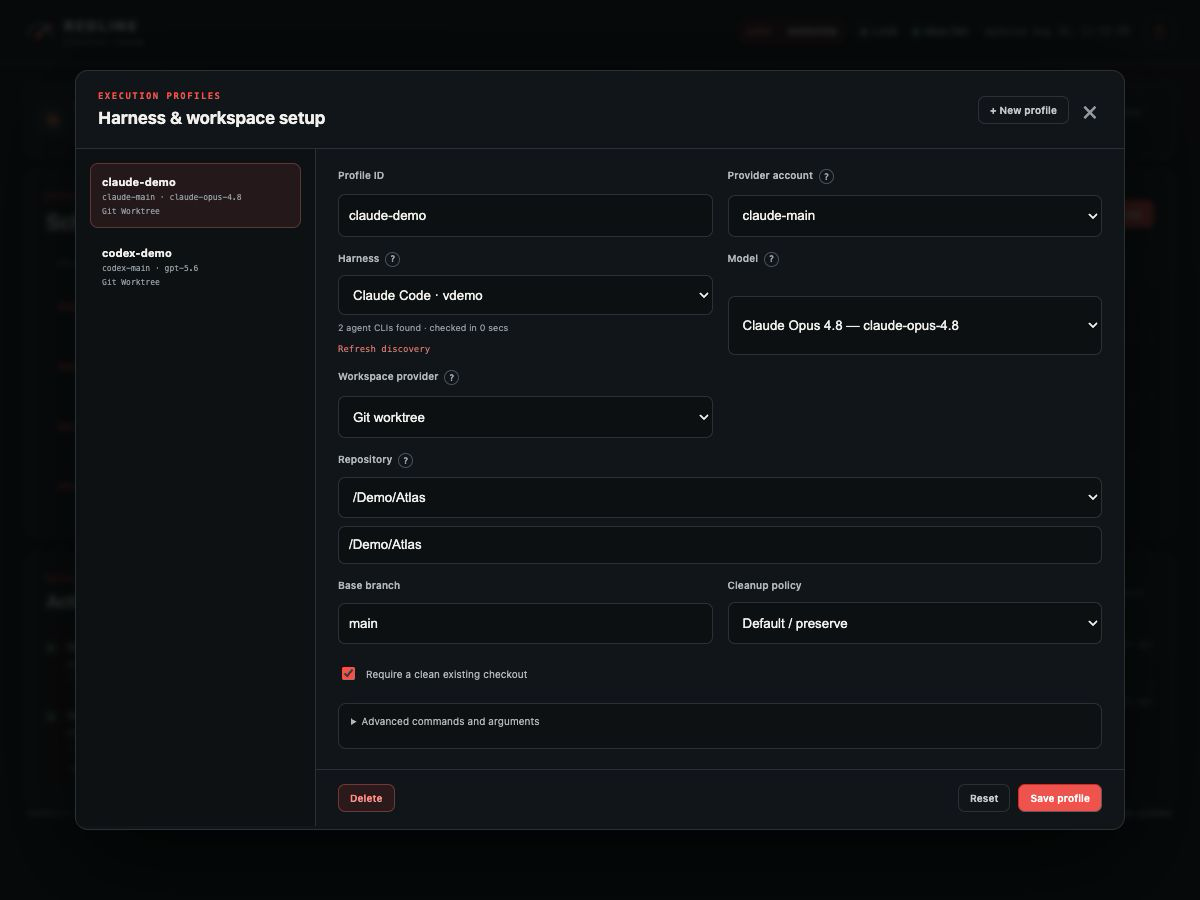
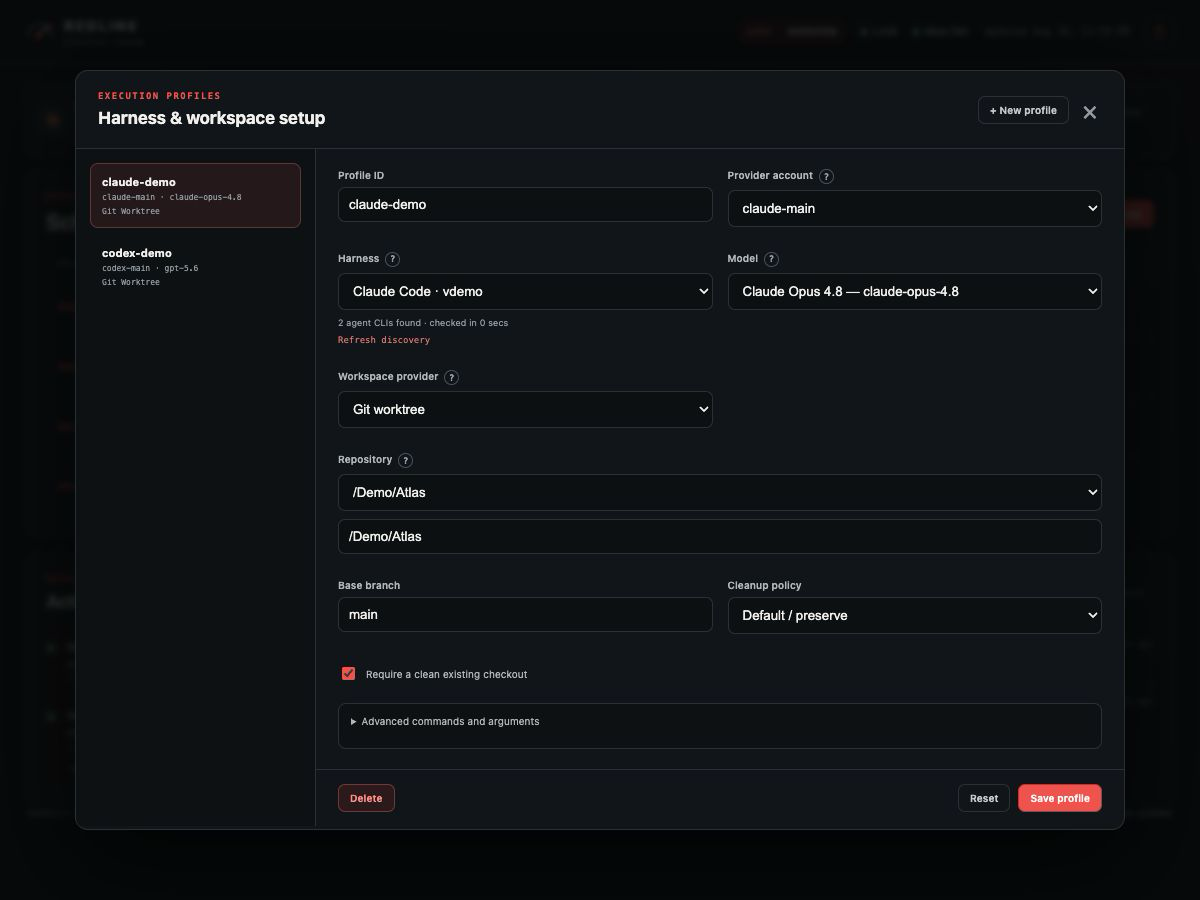
fix: align profile model and harness controls

diff --git a/internal/api/dashboard/dashboard.css b/internal/api/dashboard/dashboard.css
@@ -22,6 +22,7 @@ main{max-width:1320px;margin:0 auto;padding:18px 24px 64px}.summary-rail{display
 dialog{width:min(880px,calc(100vw - 32px));height:min(620px,calc(100vh - 80px));border:1px solid var(--line);border-radius:var(--radius);background:#111519;color:var(--text);padding:0;box-shadow:0 30px 100px #000a}dialog::backdrop{background:#050607cf;backdrop-filter:blur(3px)}.dialog-head{display:flex;justify-content:space-between;align-items:center;padding:20px 22px;border-bottom:1px solid var(--line)}.dialog-head h2{margin:0;font-size:17px}.dialog-head>button,.close-button{border:0;background:transparent;font-size:26px;color:var(--muted);cursor:pointer}.dialog-actions{display:flex;align-items:center;gap:9px}.dialog-actions .close-button{padding:0 4px}.log-tabs{display:flex;gap:4px;padding:12px 22px 0}.log-tabs button{border:1px solid var(--line);background:transparent;border-radius:6px;padding:6px 10px;font:9px ui-monospace,monospace;cursor:pointer}.log-tabs button.active{border-color:#8a3d40;color:#ff8c86;background:#2a181a}pre{margin:12px 22px 22px;background:#090b0d;border:1px solid #242a2f;border-radius:8px;padding:16px;height:calc(100% - 132px);overflow:auto;font:11px/1.6 ui-monospace,SFMono-Regular,Menlo,monospace;color:#cdd1d2;white-space:pre-wrap}
 .task-dialog{width:min(720px,calc(100vw - 24px));height:auto;max-height:calc(100vh - 40px)}.task-dialog form{display:flex;flex-direction:column;max-height:inherit}.form-body{display:grid;grid-template-columns:1fr 1fr;gap:15px;padding:20px 22px;overflow:auto}.field{display:grid;gap:6px}.field-wide,.check-field,.form-error{grid-column:1/-1}.field>span{color:#b2b7ba;font-size:10px;font-weight:600}.field small{color:var(--muted);font-weight:400}.field input,.field select,.field textarea{width:100%;border:1px solid var(--line);border-radius:7px;background:#0c1013;color:var(--text);padding:9px 10px;font:11px/1.45 inherit;outline:none}.field textarea{resize:vertical;min-height:112px}.field input:focus,.field select:focus,.field textarea:focus{border-color:#8e4042;box-shadow:0 0 0 2px #f0524d18}.nested-input{margin-top:2px}.field-note{display:block;color:var(--muted);font-size:9px;line-height:1.45}.help{display:inline-grid;place-items:center;position:relative;width:15px;height:15px;margin-left:3px;border:1px solid #48515a;border-radius:50%;color:#9da5ab;font:700 9px ui-monospace,monospace;font-style:normal;cursor:help;vertical-align:middle}.help:after{content:attr(data-help);position:absolute;left:50%;bottom:calc(100% + 8px);width:245px;padding:9px 10px;border:1px solid var(--line);border-radius:7px;background:#252b30;color:#d5d9db;font:9px/1.45 Inter,sans-serif;font-weight:400;box-shadow:0 12px 35px #0009;opacity:0;visibility:hidden;transform:translate(-50%,4px);transition:.14s;z-index:50;pointer-events:none}.help:hover:after,.help:focus:after{opacity:1;visibility:visible;transform:translate(-50%,0)}.check-field{display:flex;align-items:center;gap:8px;color:#b2b7ba;font-size:10px}.check-field input{accent-color:var(--accent)}.form-error{border:1px solid #71383a;background:#2b191b;color:#ff9c96;border-radius:7px;padding:9px 11px;font-size:10px}.form-footer{display:flex;align-items:center;justify-content:space-between;gap:12px;border-top:1px solid var(--line);padding:14px 22px}.form-footer>div{display:flex;gap:8px}
 .profiles-dialog{width:min(1050px,calc(100vw - 32px));height:min(760px,calc(100vh - 40px))}.profile-layout{display:grid;grid-template-columns:240px 1fr;height:calc(100% - 81px);min-height:0}.profiles-list{padding:14px;border-right:1px solid var(--line);overflow:auto;background:#0d1114}.profile-card{display:grid;width:100%;gap:5px;text-align:left;border:1px solid transparent;border-radius:8px;background:transparent;color:var(--text);padding:11px;margin-bottom:6px;cursor:pointer}.profile-card:hover,.profile-card.active{border-color:#613438;background:#24181a}.profile-card strong{font-size:11px}.profile-card span,.profile-card small{color:var(--muted);font:8px ui-monospace,monospace}.profile-form{display:flex;flex-direction:column;min-height:0}.profile-form>.form-error{margin:16px 22px 0}.profile-form .form-body{flex:1}.advanced-fields{border:1px solid var(--line);border-radius:8px;background:#0d1114}.advanced-fields summary{padding:11px 12px;color:#b2b7ba;font-size:10px;cursor:pointer}.advanced-grid{display:grid;grid-template-columns:1fr 1fr;gap:15px;padding:4px 12px 13px}.advanced-grid textarea{min-height:70px}.profile-form .form-footer{margin-top:auto}.inline-button{justify-self:start;border:0;background:transparent;color:#db7772;padding:0;font:9px ui-monospace,monospace;cursor:pointer}.inline-button:hover{text-decoration:underline}.inline-button:disabled{color:var(--muted);cursor:wait;text-decoration:none}
+.profile-form .field{align-content:start}
 .source-error{display:block;color:#ff918b;font-size:9px;margin:-8px 0 12px}
 .policy-control{display:block;border:1px solid var(--line);border-radius:8px;background:#101417;padding:10px 11px;margin-bottom:15px}.policy-control label{display:flex;align-items:center;justify-content:space-between;gap:14px}.policy-control label>span{font-size:10px;font-weight:600}.policy-control select{min-width:150px;border:1px solid var(--line);border-radius:6px;background:#0a0d0f;color:var(--text);padding:6px 8px;font-size:10px;outline:none}.policy-control select:focus{border-color:#8e4042;box-shadow:0 0 0 2px #f0524d18}.policy-control small{display:block;color:var(--muted);font:8px/1.45 ui-monospace,monospace;margin-top:7px}
 @media(max-width:980px){.provider-compact{flex:1;min-width:165px}.updated{display:none}.rail-meta div{padding:0 10px;min-width:72px}}

diff --git a/tests/dashboard/dashboard.spec.js b/tests/dashboard/dashboard.spec.js
@@ -232,6 +232,19 @@ test('creates a Pi profile and surfaces blocked deletion errors', async ({ page 
   await expect(page.locator('#profile-form-error')).toContainText('profile is assigned to a task');
 });
 
+test('top-aligns harness and model controls in the profile editor', async ({ page }) => {
+  await loadDashboard(page);
+  await page.getByRole('button', { name: 'Profiles' }).click();
+  await page.locator('[data-profile="codex-devx"]').click();
+
+  const harness = await page.locator('#profile-harness').boundingBox();
+  const model = await page.locator('#profile-model-choice').boundingBox();
+  expect(harness).not.toBeNull();
+  expect(model).not.toBeNull();
+  expect(Math.abs(harness.y - model.y)).toBeLessThanOrEqual(1);
+  expect(Math.abs(harness.height - model.height)).toBeLessThanOrEqual(1);
+});
+
 test('imports Hermes Desktop and creates a remote profile from discovered context', async ({ page }) => {
   const state = await loadDashboard(page);
   await page.getByRole('button', { name: 'Profiles' }).click();
